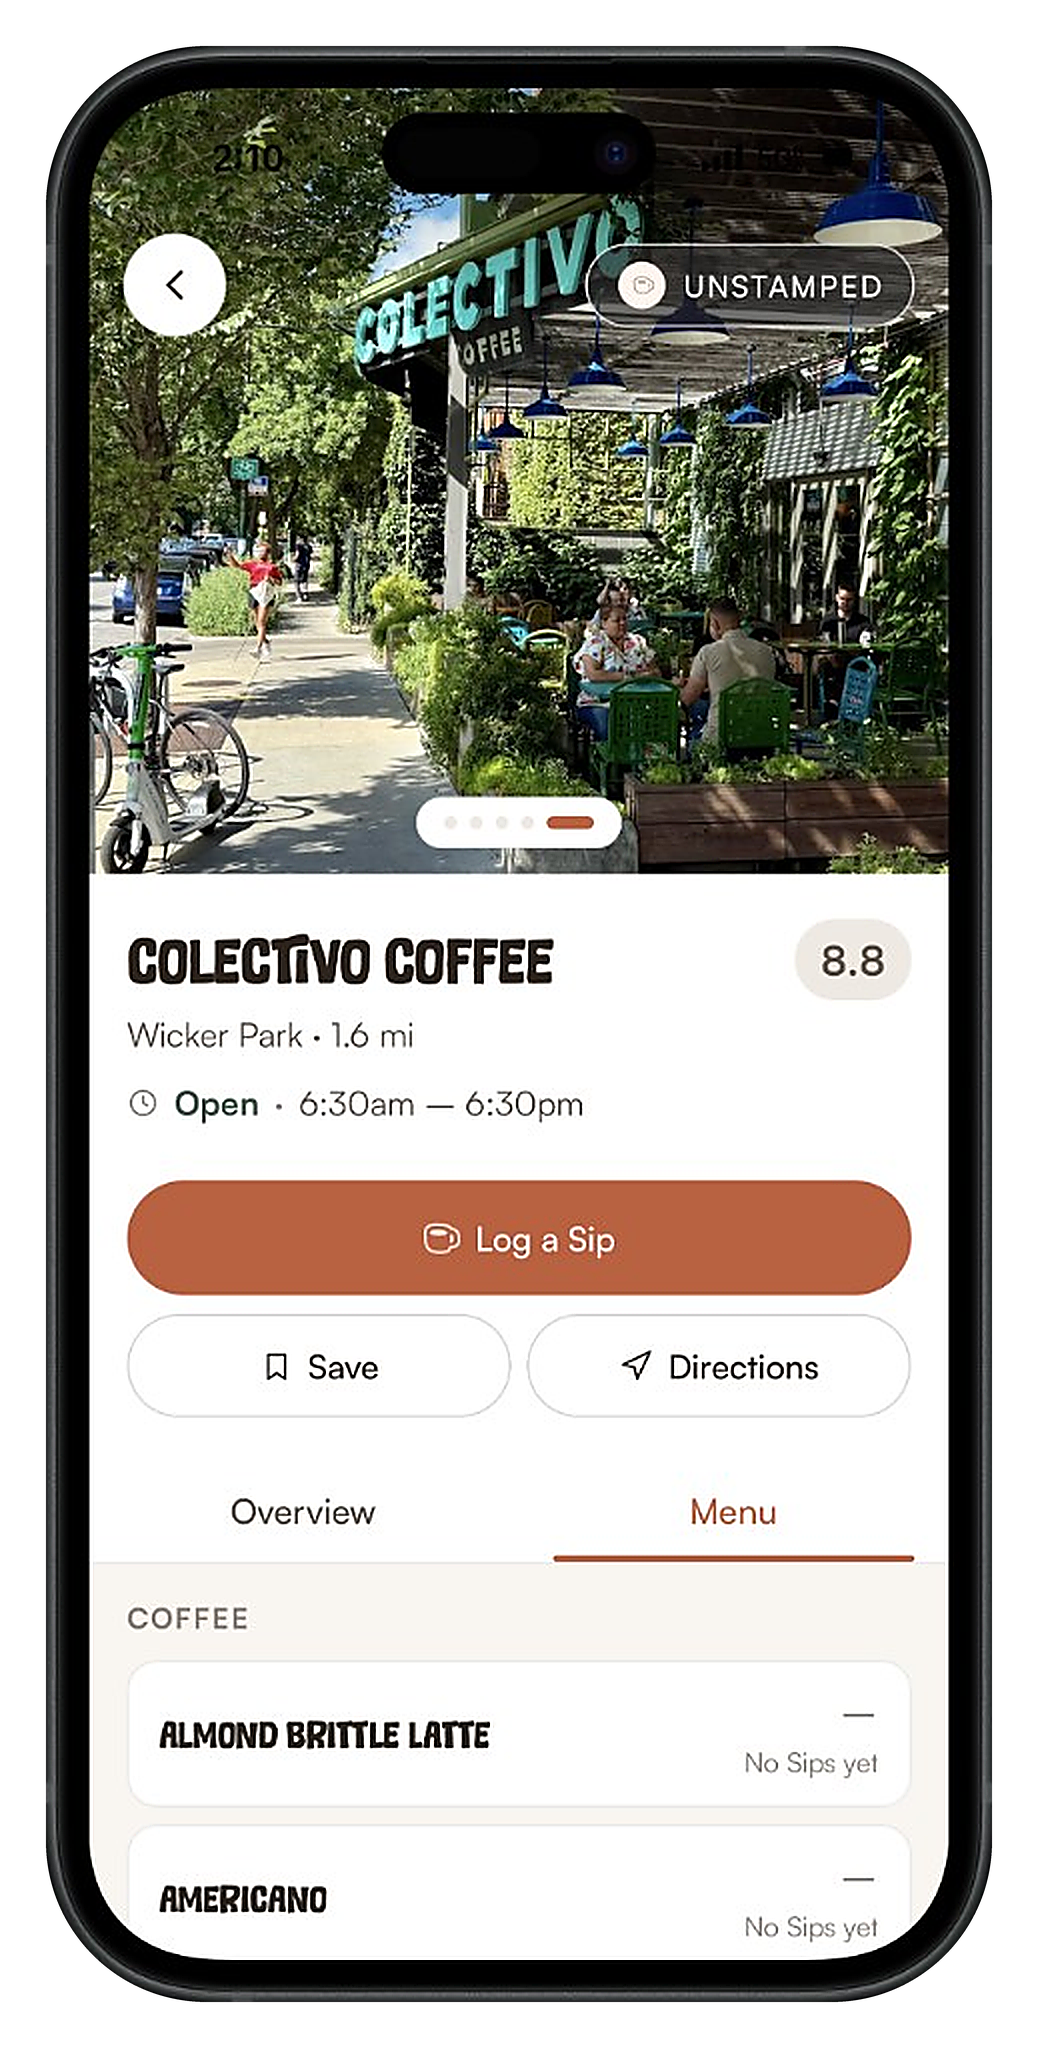
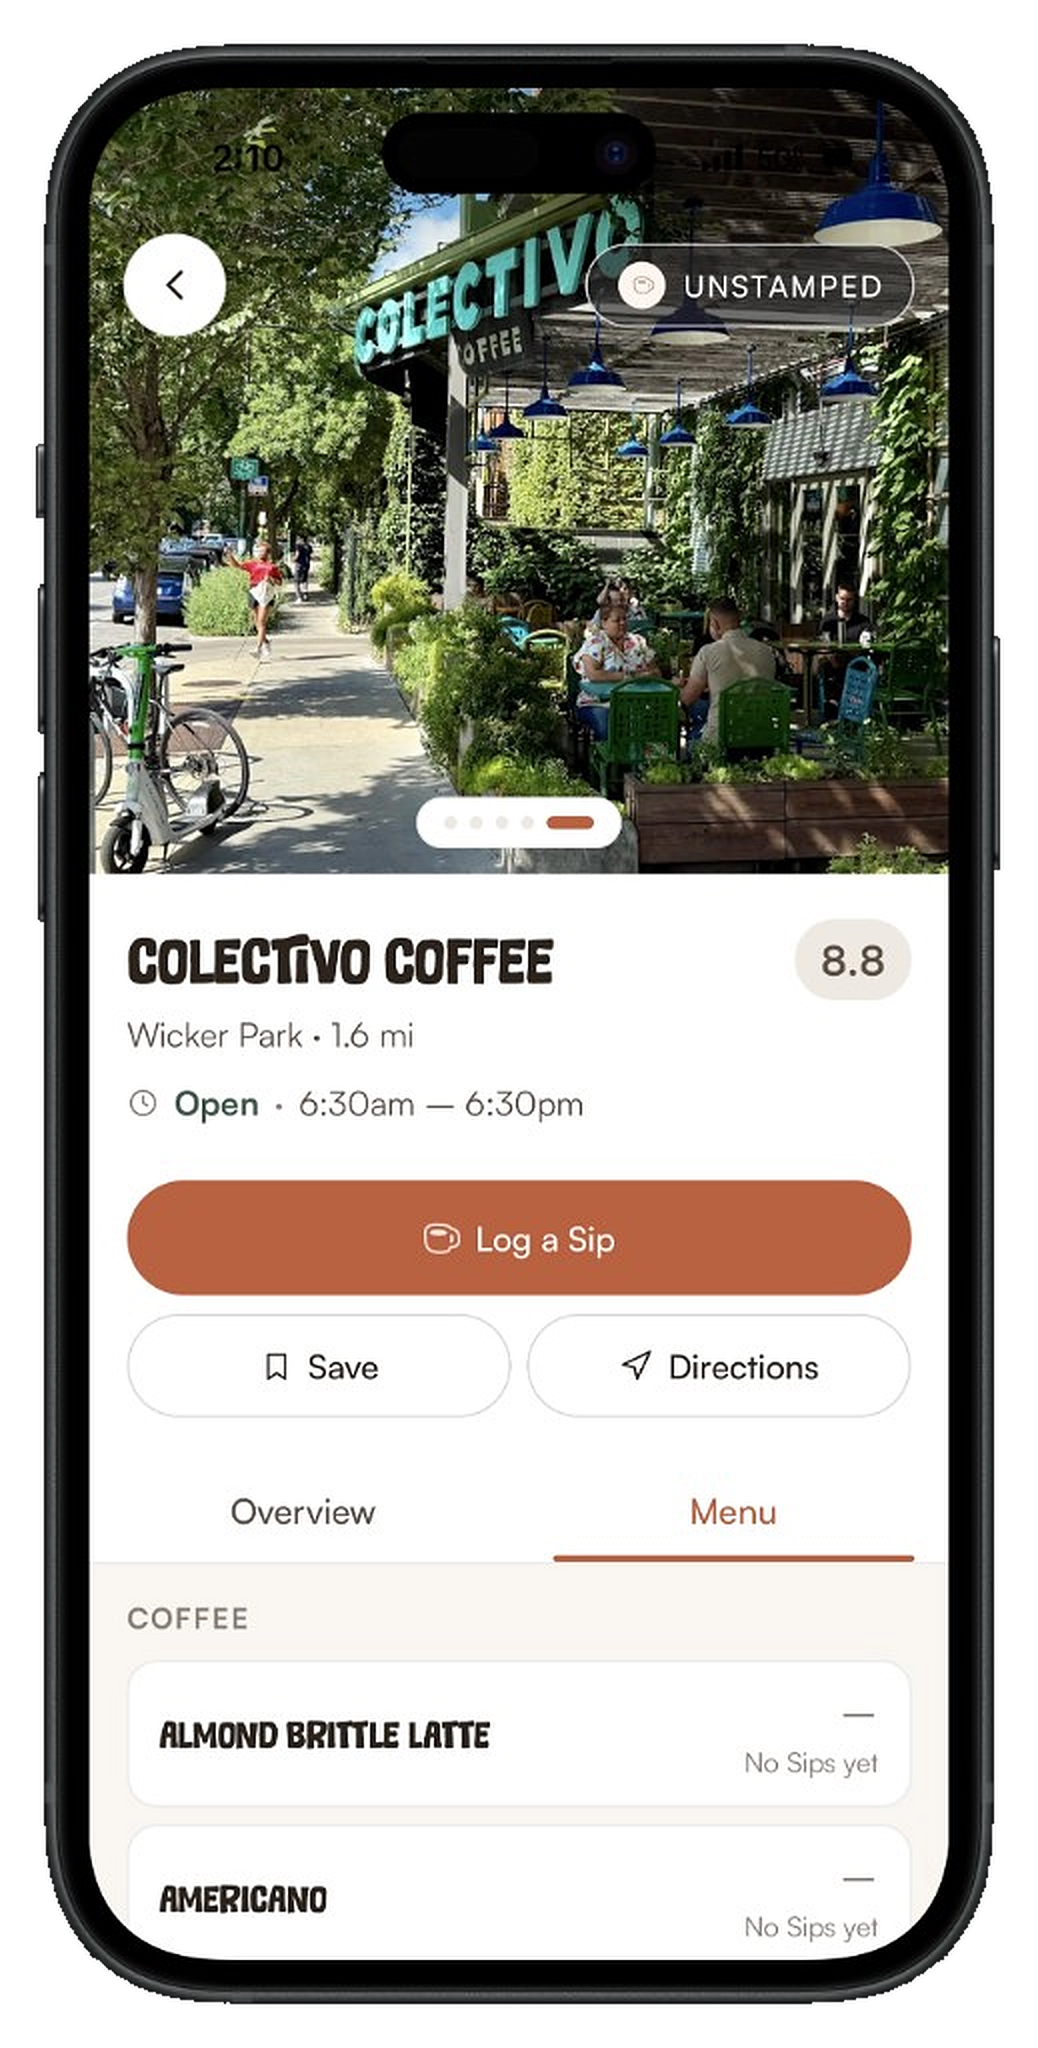
imaes

diff --git a/index.html b/index.html
@@ -3,18 +3,18 @@
 <head>
 <meta charset="utf-8" />
 <meta name="viewport" content="width=device-width,initial-scale=1" />
-<title>GoodSip · A coffee journal</title>
+<title>GoodSip</title>
 <meta name="description" content="Journal and share your favorite coffee with your friends." />
 <meta property="og:type" content="website" />
 <meta property="og:url" content="https://goodsip.vercel.app/" />
-<meta property="og:title" content="GoodSip · A coffee journal" />
+<meta property="og:title" content="GoodSip" />
 <meta property="og:description" content="Journal and share your favorite coffee with your friends." />
 <meta property="og:image" content="https://goodsip.vercel.app/assets/og-image.jpg" />
 <meta property="og:image:width" content="1200" />
 <meta property="og:image:height" content="1200" />
 <meta property="og:image:alt" content="GoodSip cafe map" />
 <meta name="twitter:card" content="summary_large_image" />
-<meta name="twitter:title" content="GoodSip · A coffee journal" />
+<meta name="twitter:title" content="GoodSip" />
 <meta name="twitter:description" content="Journal and share your favorite coffee with your friends." />
 <meta name="twitter:image" content="https://goodsip.vercel.app/assets/og-image.jpg" />
 <link rel="apple-touch-icon" href="assets/apple-touch-icon.png" />
@@ -141,8 +141,8 @@
     width: 100%;
     height: auto;
     filter:
-      drop-shadow(0 24px 48px rgba(0, 0, 0, 0.16))
-      drop-shadow(0 6px 14px rgba(0, 0, 0, 0.08));
+      drop-shadow(0 10px 20px rgba(0, 0, 0, 0.10))
+      drop-shadow(0 2px 5px rgba(0, 0, 0, 0.06));
   }
 
   /* ---------- centered section template ---------- */
@@ -195,8 +195,8 @@
     width: 300px;
     height: auto;
     filter:
-      drop-shadow(0 24px 48px rgba(0, 0, 0, 0.16))
-      drop-shadow(0 6px 14px rgba(0, 0, 0, 0.08));
+      drop-shadow(0 10px 20px rgba(0, 0, 0, 0.10))
+      drop-shadow(0 2px 5px rgba(0, 0, 0, 0.06));
   }
 
   /* paired phones — slight stagger to feel less stiff */
